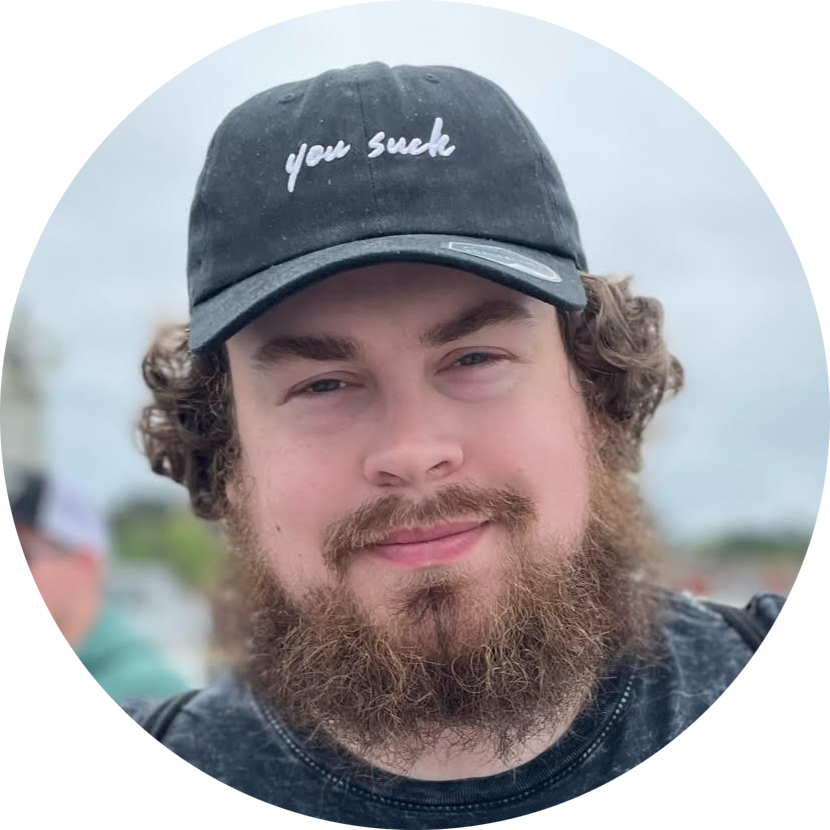
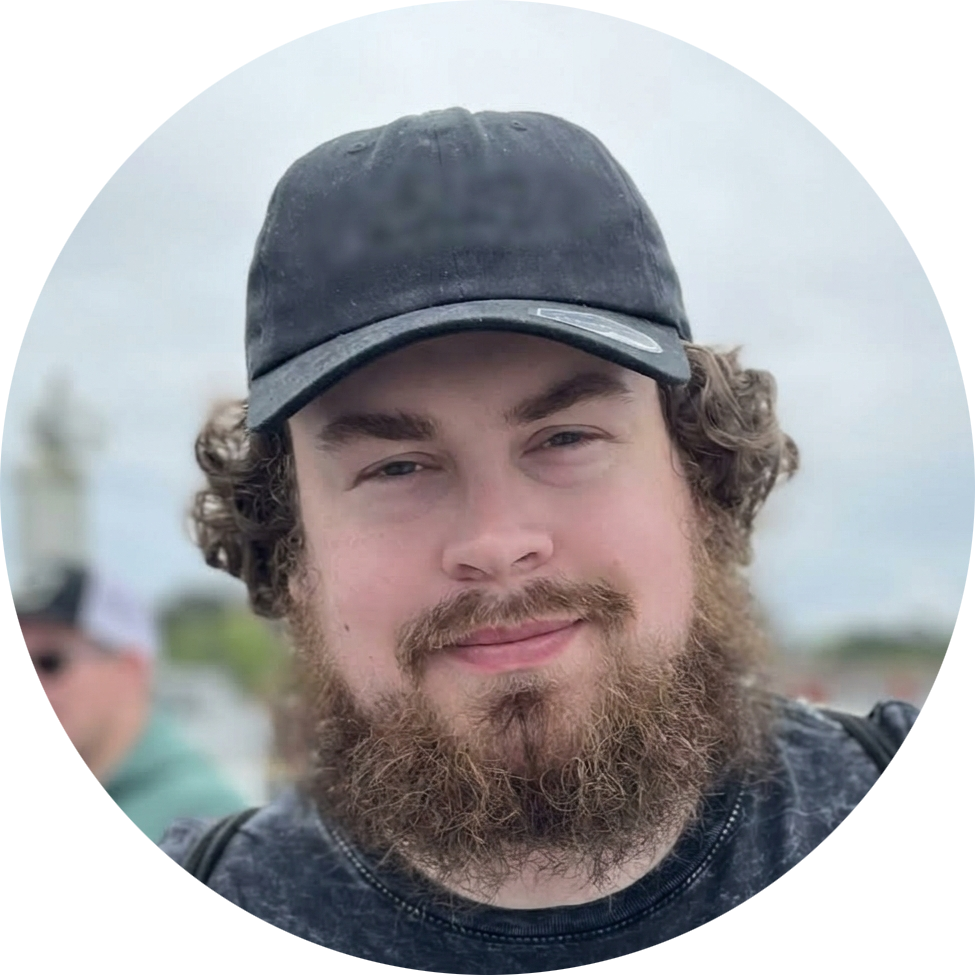
Added game source tags.
Updated profile picture

diff --git a/index.html b/index.html
@@ -407,6 +407,58 @@
 											z-index: 1;
 										}
 
+										/* ── Experience tag on app icon ── */
+										.app-icon-exp {
+											display: block !important;
+											visibility: visible !important;
+											margin-top: 0.15em;
+											font-size: 0.62em;
+											text-align: center;
+											color: rgba(78,201,176,0.75) !important;
+											line-height: 1.2;
+											width: 100%;
+											position: relative;
+											z-index: 1;
+											letter-spacing: 0.02em;
+										}
+										body.dark-mode .app-icon-exp { color: rgba(78,201,176,0.85) !important; }
+
+										/* ── Experience pill in app sheet tags row ── */
+										.appstore-tag-exp {
+											display: inline-flex;
+											align-items: center;
+											gap: 0.35em;
+											background: rgba(78,201,176,0.1);
+											border: 1px solid rgba(78,201,176,0.25);
+											border-radius: 20px;
+											padding: 0.2em 0.6em 0.2em 0.35em;
+											font-size: 0.72em;
+											color: rgba(78,201,176,0.9);
+											font-family: inherit;
+											line-height: inherit;
+											cursor: pointer;
+											transition: background 0.15s, border-color 0.15s;
+										}
+										.appstore-tag-exp:hover {
+											background: rgba(78,201,176,0.2);
+											border-color: rgba(78,201,176,0.5);
+										}
+										.appstore-tag-exp img {
+											width: 14px;
+											height: 14px;
+											border-radius: 3px;
+											object-fit: cover;
+											display: block;
+										}
+										.appstore-tag-exp-placeholder {
+											width: 14px;
+											height: 14px;
+											border-radius: 3px;
+											background: rgba(78,201,176,0.2);
+											display: block;
+											flex-shrink: 0;
+										}
+
 										/* ── iOS Notification Badge ── */
 										.app-icon-stage {
 											position: relative;
@@ -1164,6 +1216,7 @@
 
 										// ── Game Data (loaded from games.json) ───────────────────
 										var GAMES = [];
+										var EXPERIENCE_DATA = {}; // keyed by id
 
 										function buildGrid() {
 											// ── Build app grid ───────────────────────────────────────
@@ -1221,6 +1274,19 @@
 												wrap.appendChild(yearLabel);
 											}
 
+											// Experience tag below year
+											if (game.experience) {
+												var expData = typeof game.experience === 'string'
+													? (EXPERIENCE_DATA[game.experience] ? { label: EXPERIENCE_DATA[game.experience].company } : null)
+													: { label: game.experience.label };
+												if (expData) {
+													var expLabel = document.createElement('span');
+													expLabel.className = 'app-icon-exp';
+													expLabel.textContent = expData.label;
+													wrap.appendChild(expLabel);
+												}
+											}
+
 											wrap.addEventListener('click', (function(id) {
 												return function() { asOpen(id); };
 											})(game.id));
@@ -1245,16 +1311,26 @@
 										}); // end GAMES.forEach
 										} // end buildGrid()
 
-										// ── Bootstrap: fetch games.json then build ────────────────
-										fetch('games.json')
-											.then(function(r) { return r.json(); })
-											.then(function(data) {
-												GAMES = data;
-												buildGrid();
-											})
-											.catch(function(err) {
-												console.error('Failed to load games.json:', err);
-											});
+										// ── Bootstrap: fetch experience + games, then build grid ─────
+										Promise.all([
+											fetch('games.json').then(function(r){ return r.json(); }),
+											fetch('experience.json').then(function(r){ return r.json(); }).catch(function(){ return null; })
+										]).then(function(res) {
+											GAMES = res[0];
+											// Index both work and education entries by id for fast lookup
+											if (res[1]) {
+												(res[1].work || []).forEach(function(job) {
+													EXPERIENCE_DATA[job.id] = job;
+												});
+												(res[1].education || []).forEach(function(edu) {
+													// Normalise to 'company' so tag display code works uniformly
+													EXPERIENCE_DATA[edu.id] = Object.assign({}, edu, { company: edu.school });
+												});
+											}
+											buildGrid();
+										}).catch(function(err) {
+											console.error('Failed to load games.json:', err);
+										});
 
 										// ── Tilt on proximity ────────────────────────────────────
 										// Radius (px) within which icons start reacting to the mouse
@@ -1367,9 +1443,29 @@
 											document.getElementById('as-meta').innerHTML  = game.meta + (game.year ? ' &bull; ' + game.year : '');
 
 											var tagsEl = document.getElementById('as-tags');
-											tagsEl.innerHTML = (game.tags || []).map(function(t) {
+											var tagHtml = (game.tags || []).map(function(t) {
 												return '<span class="appstore-tag">' + t + '</span>';
 											}).join('');
+											// Experience pill — string = résumé ref, object = external link
+											if (game.experience) {
+												var exp = typeof game.experience === 'string'
+													? (EXPERIENCE_DATA[game.experience] ? {
+														label: EXPERIENCE_DATA[game.experience].company,
+														image: EXPERIENCE_DATA[game.experience].image,
+														url:   null
+													} : null)
+													: { label: game.experience.label, image: game.experience.image, url: game.experience.url };
+												if (exp) {
+													var imgHtml = exp.image
+														? '<img src="' + exp.image + '" onerror="this.style.display=\'none\'" alt="" />'
+														: '<span class="appstore-tag-exp-placeholder"></span>';
+													var onclick = exp.url
+														? 'window.open(\'' + exp.url + '\',\'_blank\')'
+														: 'asClose();setTimeout(function(){var t=document.getElementById(\'three\');if(t)t.scrollIntoView({behavior:\'smooth\'});},340);';
+													tagHtml = '<button class="appstore-tag-exp" onclick="' + onclick + '">' + imgHtml + exp.label + '</button>' + tagHtml;
+												}
+											}
+											tagsEl.innerHTML = tagHtml;
 
 											document.getElementById('as-desc').textContent = game.desc;
 
